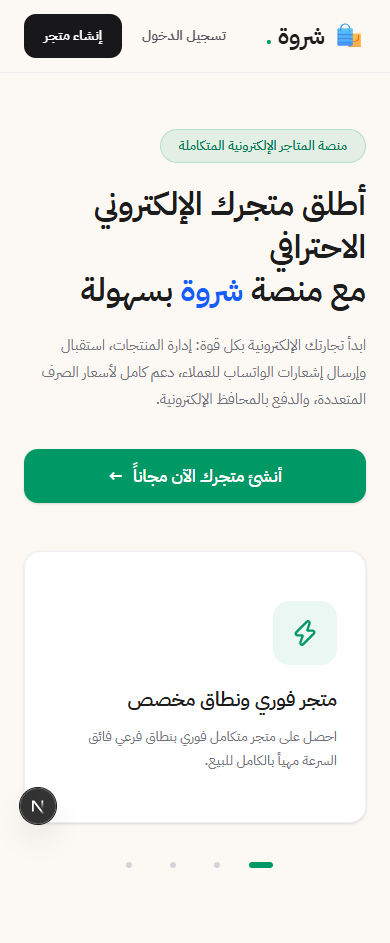
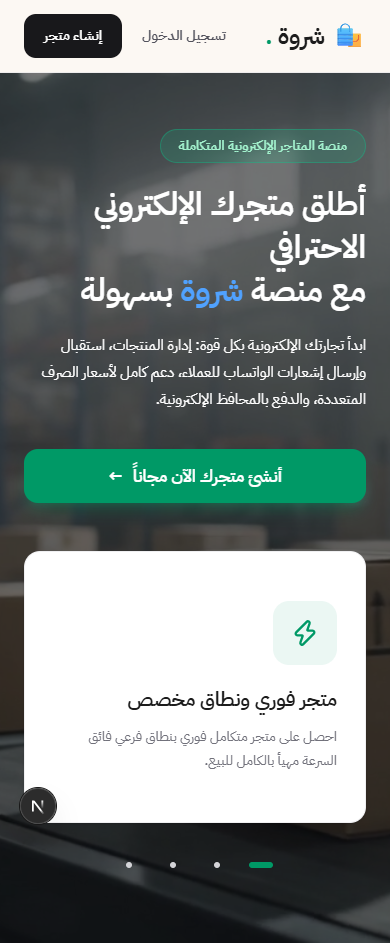
feat(landing): full-bleed background video behind the hero
Owner direction 2026-10-17, matching Shopify's current treatment.

- `<video autoPlay muted loop playsInline>` at `/hero-video.mp4`, absolutely
  positioned and `object-cover` at -z-20, with a `bg-zinc-950/55` scrim at
  -z-10 and the content at z-10.
- Copy inverted for the dark ground: headline and subtitle to `text-white`,
  the brand word to `blue-400` and the badge to an emerald-200-on-emerald-400
  tint. Both were unreadable at their light-surface values — `blue-600` and
  `emerald-700` on a 55% black scrim fail AA outright. The action keeps
  `bg-emerald-600` and gains the glow.
- `max-w-7xl` moved off the section onto a new inner wrapper. The video is
  bounded by its section, which was capped at 1280px, so it would have been a
  letterboxed strip down the middle of a wide display. The columns render at
  exactly the width they did before.
- The section carries `bg-zinc-950` and `isolate`. The black is what the white
  type sits on before the first frame decodes, and if the file is ever absent;
  the isolation keeps the negative z-indices inside the section.
- `min-h-[calc(100dvh-4.5rem)]` now applies at every width, not just lg — a
  background video in a 400px-tall band is not a background.

The video itself: the clip already in `public/` was renamed from
`gemini_generated_video_8cfcfdb4.mp4` to the `hero-video.mp4` the markup asks
for. It is gitignored (3MB binary), and `public/README.md` documents the
[…]

diff --git a/src/features/landing/components/hero.tsx b/src/features/landing/components/hero.tsx
@@ -3,48 +3,79 @@ import { FeatureCarousel } from "@/features/landing/components/feature-carousel"
 import { hero } from "@/features/landing/original.content";
 
 /**
- * Split-screen hero: the original template's copy block on the reading side,
- * its four feature cards opposite as a carousel.
+ * Split-screen hero over a full-bleed background video (owner direction
+ * 2026-10-17, matching Shopify's current treatment).
  *
- * Layout and element order are untouched. Color is down to three things — ink
- * for the type, one green for the badge and the action, and one blue for the
- * brand word. The template's teal→indigo headline gradient and the CTA's
- * colored glow are gone; the action carries a plain neutral `shadow-sm`.
+ * The two columns, their order and every element inside them are unchanged.
+ * Two things were added around them and one thing moved:
+ *
+ *   - the video and its scrim, as the section's first two children;
+ *   - `max-w-7xl` moved OFF the section and onto a new inner wrapper. The
+ *     video is `absolute inset-0` and so is bounded by the section, which was
+ *     capped at 1280px — it would have been a letterboxed strip down the
+ *     middle of a wide display instead of a background. The columns sit at
+ *     exactly the same width they did before.
+ *
+ * Layering: the section is `isolate`, so it forms a stacking context and the
+ * negative z-indices below cannot escape it. Within that context the paint
+ * order is the section's own `bg-zinc-950`, then the video (-z-20), then the
+ * scrim (-z-10), then the content (z-10). The black ground matters: it is
+ * what the white type sits on for the moment before the first frame decodes,
+ * and what it would sit on if the file were ever missing.
  */
 export function Hero() {
   return (
-    <section className="mx-auto flex w-full max-w-7xl flex-col justify-center px-6 py-14 sm:px-8 md:py-20 lg:min-h-[calc(100dvh-4.5rem)] lg:py-16">
-      <div className="grid items-center gap-12 lg:grid-cols-2 lg:gap-14 xl:gap-20">
-        <div className="flex flex-col items-start text-start">
-          <span className="inline-flex items-center rounded-full border border-emerald-600/20 bg-emerald-600/10 px-[18px] py-1.5 text-[13px] font-extrabold text-emerald-700">
-            {hero.badge}
-          </span>
+    <section className="relative isolate flex w-full flex-col justify-center overflow-hidden bg-zinc-950 py-14 md:py-20 lg:py-16 min-h-[calc(100dvh-4.5rem)]">
+      <video
+        src="/hero-video.mp4"
+        autoPlay
+        muted
+        loop
+        playsInline
+        // Decorative: it carries no information the copy does not, so it is
+        // hidden from assistive tech rather than described.
+        aria-hidden
+        tabIndex={-1}
+        preload="auto"
+        className="absolute inset-0 -z-20 h-full w-full object-cover"
+      />
 
-          <h1 className="sharwa-ink mt-5 text-[2rem] leading-[1.35] font-black sm:text-[2.6rem] lg:text-[2.9rem]">
-            {hero.titleLine1}
-            <br />
-            {hero.titleLine2Before}
-            <span className="text-blue-600">{hero.titleAccent}</span>
-            {hero.titleLine2After}
-          </h1>
+      {/* Scrim. Holds the white type legible over any frame of any clip. */}
+      <div aria-hidden className="absolute inset-0 -z-10 bg-zinc-950/55" />
 
-          <p className="mt-5 max-w-xl text-[15px] leading-[1.8] text-zinc-500 sm:text-[17px]">
-            {hero.subtitle}
-          </p>
+      <div className="relative z-10 mx-auto w-full max-w-7xl px-6 sm:px-8">
+        <div className="grid items-center gap-12 lg:grid-cols-2 lg:gap-14 xl:gap-20">
+          <div className="flex flex-col items-start text-start">
+            <span className="inline-flex items-center rounded-full border border-emerald-400/30 bg-emerald-400/15 px-[18px] py-1.5 text-[13px] font-extrabold text-emerald-200 backdrop-blur-sm">
+              {hero.badge}
+            </span>
 
-          <Link
-            href="/register"
-            className="mt-9 inline-flex min-h-[3.4rem] w-full items-center justify-center gap-2.5 rounded-[14px] bg-emerald-600 px-9 text-[17px] font-extrabold text-white shadow-sm transition-colors hover:bg-emerald-700 sm:w-auto"
-          >
-            <span>{hero.cta}</span>
-            {/* The template's own arrow. It points along the reading direction,
-                so it is a literal character, not a mirrored icon. */}
-            <span aria-hidden>←</span>
-          </Link>
-        </div>
+            <h1 className="mt-5 text-[2rem] leading-[1.35] font-black text-white sm:text-[2.6rem] lg:text-[2.9rem]">
+              {hero.titleLine1}
+              <br />
+              {hero.titleLine2Before}
+              <span className="text-blue-400">{hero.titleAccent}</span>
+              {hero.titleLine2After}
+            </h1>
 
-        <div className="w-full lg:justify-self-end">
-          <FeatureCarousel />
+            <p className="mt-5 max-w-xl text-[15px] leading-[1.8] text-white sm:text-[17px]">
+              {hero.subtitle}
+            </p>
+
+            <Link
+              href="/register"
+              className="mt-9 inline-flex min-h-[3.4rem] w-full items-center justify-center gap-2.5 rounded-[14px] bg-emerald-600 px-9 text-[17px] font-extrabold text-white shadow-lg shadow-emerald-600/30 transition-all hover:bg-emerald-500 hover:shadow-xl hover:shadow-emerald-500/40 sm:w-auto"
+            >
+              <span>{hero.cta}</span>
+              {/* The template's own arrow. It points along the reading direction,
+                  so it is a literal character, not a mirrored icon. */}
+              <span aria-hidden>←</span>
+            </Link>
+          </div>
+
+          <div className="w-full lg:justify-self-end">
+            <FeatureCarousel />
+          </div>
         </div>
       </div>
     </section>

diff --git a/public/README.md b/public/README.md
@@ -1,0 +1,28 @@
+# `public/`
+
+Static files served from the site root. A file here at `public/x.mp4` is
+reachable at `/x.mp4`.
+
+## `hero-video.mp4`
+
+The hero's background video. `<Hero>` points at `/hero-video.mp4`, so the file
+must carry exactly that name — it was renamed here from the generated name it
+arrived with (`gemini_generated_video_8cfcfdb4.mp4`). Replacing the clip later
+means overwriting this file, not pointing the code somewhere new.
+
+If the file is ever missing the hero does NOT break: the section paints
+`bg-zinc-950` beneath the video, so the dark ground and the white type over it
+look the same — just still instead of moving.
+
+Keep it small. This file blocks nothing, but it downloads on every first view
+of the landing page, and it is decorative. Practical targets:
+
+- 1920×1080, H.264/AAC-free (strip the audio track — the element is `muted`)
+- under ~3 MB, which usually means 6–10 seconds on a loop
+- `-movflags +faststart` so playback can begin before the file finishes
+
+A one-liner that produces all of the above from any source clip:
+
+```bash
+ffmpeg -i source.mp4 -t 8 -an -vf "scale=1920:-2" -c:v libx264 -crf 28 -preset slow -movflags +faststart public/hero-video.mp4
+```
